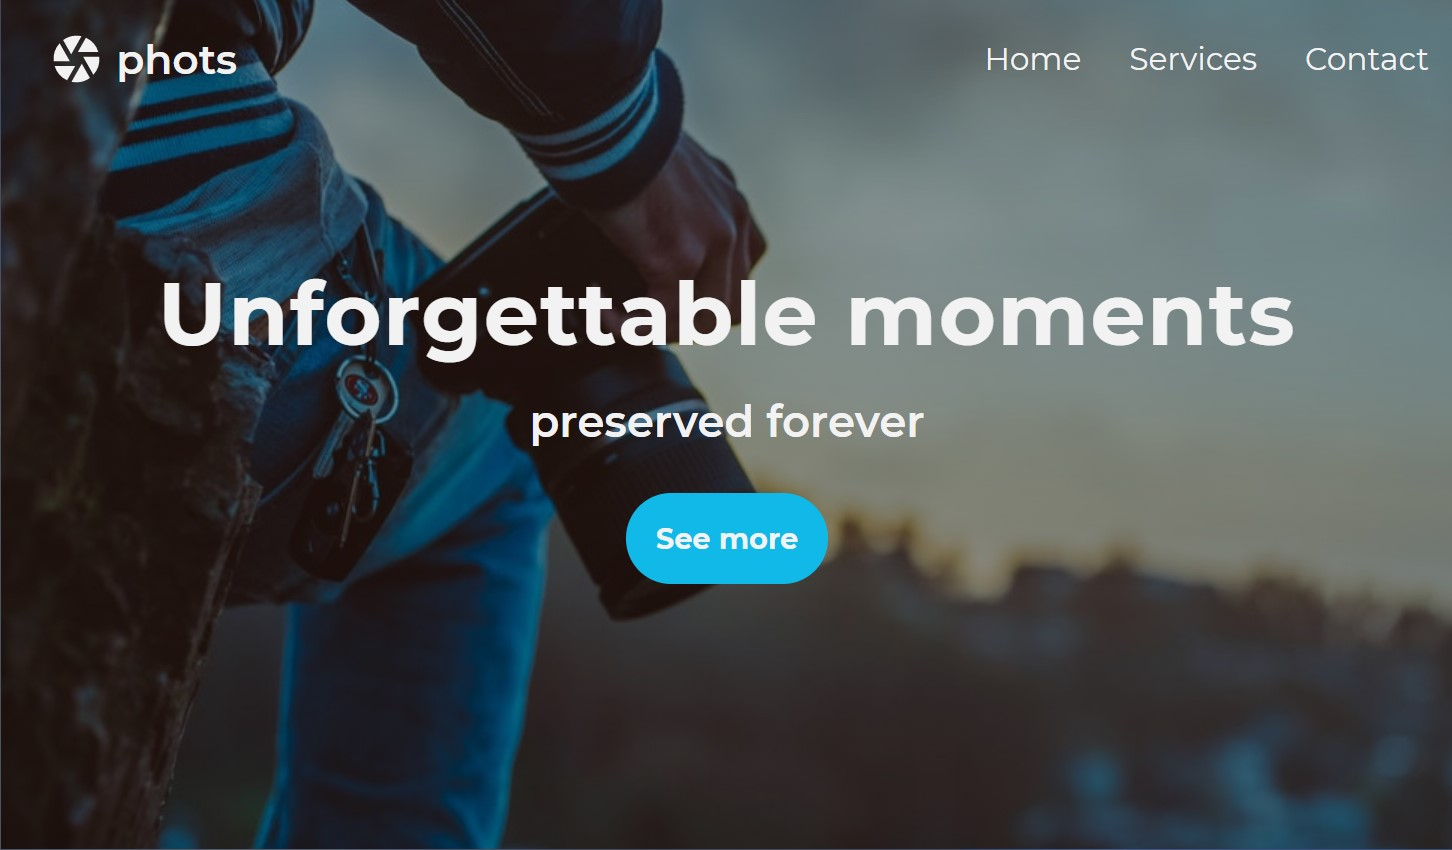
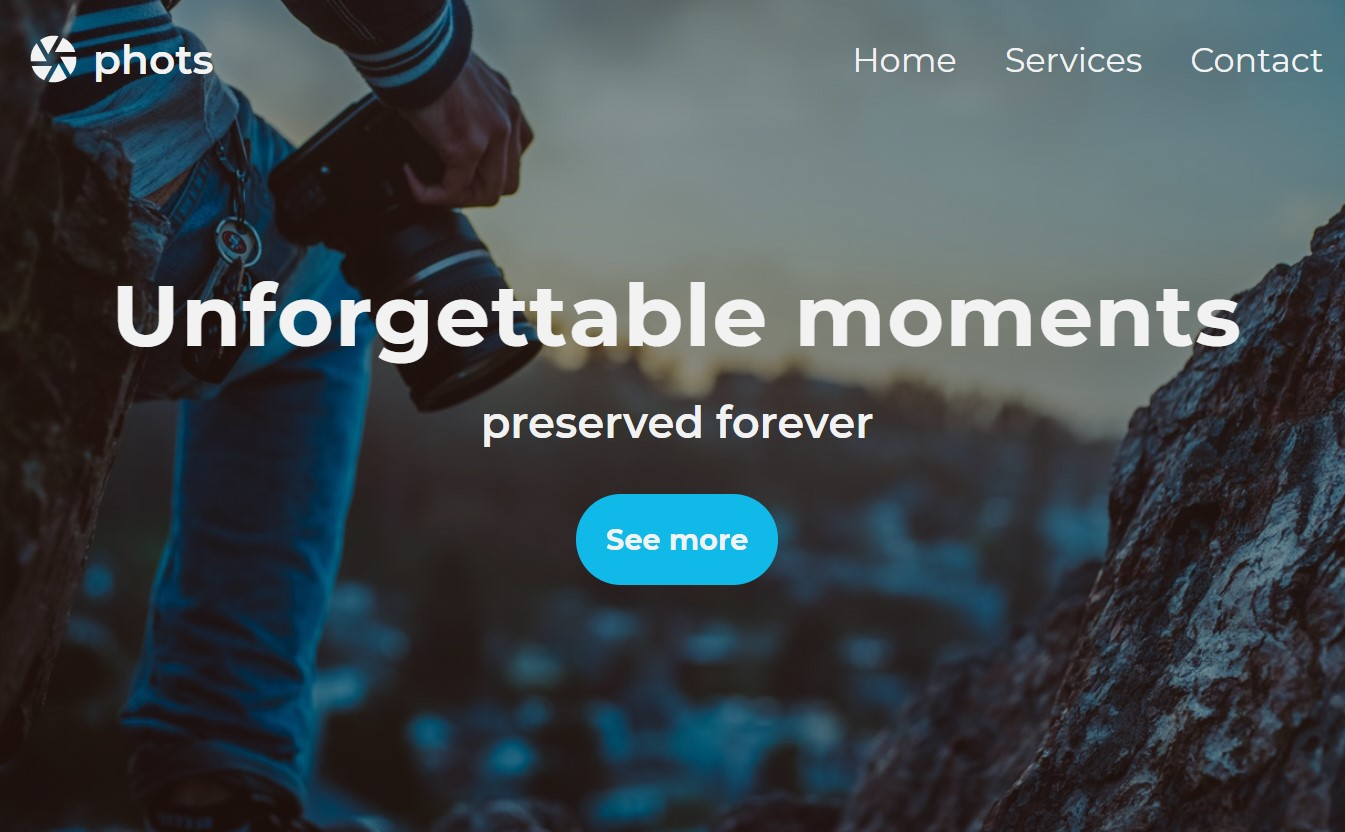
Fix media queries

diff --git a/css/style.css b/css/style.css
@@ -191,7 +191,8 @@
 }
 
 .hero__title {
-    font-size: 60px;
+    /* font-size: 60px; */
+    font-size: clamp(1.5rem, 6vw, 3.7rem);
     padding-top: 50px;
 }
 
@@ -241,7 +242,7 @@
         align-items: center;
         justify-content: center;
     }
-} 
+}
 
 @media screen and (max-width: 900px) {
     .hero__container {
@@ -251,9 +252,9 @@
         padding-top: 30px;
     }
 
-    .hero__title {
+    /* .hero__title {
         font-size: 50px;
-    }
+    } */
 
     .hero__subtitle {
         font-size: 30px;
@@ -269,9 +270,9 @@
         padding-top: 50px;
     }
 
-    .hero__title {
+    /* .hero__title {
         font-size: 40px;
-    }
+    } */
 
     .hero__subtitle {
         font-size: 20px;
@@ -345,20 +346,17 @@
 @media screen and (max-width: 1150px) {
     .skills__card {
         width: 280px;
+        margin: 0 1rem;
     }
 }
 
-@media screen and (max-width: 900px) {
+@media screen and (max-width: 990px) {
     .skills {
         padding: 5em 0;
     }
-
-    .skills__card {
-        width: 245px;
-    }
 }
 
-@media screen and (max-width: 820px) {
+@media screen and (max-width: 832px) {
     .skills__wrapper {
         flex-direction: column;
         align-items: center;
@@ -371,6 +369,10 @@
 }
 
 @media screen and (max-width: 400px) {
+    .skills__card {
+        padding: 2rem 1rem;
+        width: 90%;
+    }
     .skills__card h3 {
         font-size: 1.6rem;
     }
@@ -545,14 +547,14 @@
 }
 
 .info__container {
-    width: 75%;
+    width: 60%;
     margin: 4rem auto;
     display: flex;
     flex-direction: column;
     background-color: var(--dark-2);
     border-radius: 3px;
-    padding: 4.5rem 6rem 4.5rem 7rem;
-    clip-path: polygon(25% 0%, 100% 0%, 75% 100%, 0% 100%);
+    padding: 4.5rem;
+    clip-path: polygon(13% 0, 100% 0%, 87% 100%, 0% 100%);
 }
 
 .info__container p {
@@ -583,13 +585,14 @@
 .info__wrap {
     display: flex;
     max-height: 200px;
-} 
+    margin-top: 2rem;
+}
 
 .social-list {
     display: flex;
     height: 100px;
-    margin-top: 3rem;
-    margin-right: 1.5rem;
+    margin-top: 2rem;
+    margin-right: 5.5rem;
     justify-content: center;
     align-items: center;
     list-style: none;
@@ -606,19 +609,7 @@
     color: #1546c2;
 }
 
-
-@media screen and (max-width: 1180px) {
-    .social-list {
-        margin-right: 5.5rem;
-        margin-top: 2rem;
-    }
-
-    .info__wrap {
-        margin-top: 2rem;
-    }
-}
-
-@media screen and (max-width: 990px) {
+@media screen and (max-width: 1025px) {
     .info__wrap {
         flex-direction: column;
         margin-top: 2rem;
@@ -628,7 +619,7 @@
     .info__container p {
         margin-left: 3rem;
     }
-    
+
     .info__shape {
         width: 8rem;
         height: 8rem;
@@ -642,12 +633,19 @@
 
     .social-list {
         margin-top: 2.5rem;
+        margin-right: 1.5rem;
     }
 
     .fa-linkedin{
         margin-right: 0;
     }
 
+}
+
+@media screen and (max-width: 806px) {
+    .info__container p {
+        margin-left: 2.1rem;
+    }
 }
 
 @media screen and (max-width: 780px) {
@@ -667,15 +665,21 @@
     }
 }
 
-@media screen and (max-width: 490px) {
+@media screen and (max-width: 590px) {
     .info__container p {
         font-size: 2rem;
     }
 }
 
-@media screen and (max-width: 350px)  {
+@media screen and (max-width: 448px)  {
     .info__container p {
-        font-size: 1.6rem;
+        font-size: 1.7rem;
+    }
+}
+
+@media screen and (max-width: 398px)  {
+    .info__container {
+        width: 90%;
     }
 }
 
@@ -704,10 +708,10 @@ form {
     min-height: 460px;
     border-radius: 12px;
     padding: 2.5rem 0 1.5rem 0;
-    margin-bottom: 2.5rem;
+    margin-bottom: 4rem;
 }
 
-input, 
+input,
 .message {
     padding: 14px 32px 14px 16px;
     border-radius: 6px;
@@ -731,7 +735,7 @@ textarea {
 .message {
     margin-bottom: 1.5rem;
 }
- 
+
 @media screen and (max-width: 600px) {
     form {
         width: 480px;
@@ -745,6 +749,7 @@ textarea {
 
     form {
         width: 100%;
+        border-radius: 3px;
     }
 
     .contact__container p {
@@ -753,7 +758,7 @@ textarea {
 }
 
 @media screen and (max-width: 400px) {
-    input, 
+    input,
     .message {
         width: 260px;
     }
@@ -787,6 +792,3 @@ textarea {
         box-shadow: 0 0 0 0 rgba(32, 84, 214, 0);
     }
 }
-
-
-

diff --git a/index.html b/index.html
@@ -115,7 +115,7 @@
 
         <div class="my-work__item">
             <div class="my-work__img--wrap">
-                <div class="my-work__img"><img src="./images/phots.jpg" alt=""></div>
+                <div class="my-work__img"><img src="./images/phots-2.jpg" alt=""></div>
             </div>
             <div class="my-work__content">
                 <p class="my-work__top-line">Gatsby</p>
@@ -145,7 +145,7 @@
 
         <div class="my-work__item">
             <div class="my-work__img--wrap">
-                <div class="my-work__img"><img src="./images/phots-2.jpg" alt=""></div>
+                <div class="my-work__img"><img src="./images/projekt-3.jpg" alt=""></div>
             </div>
             <div class="my-work__content">
                 <p class="my-work__top-line">MERN</p>
@@ -183,17 +183,17 @@
                 </div>
                 <ul class="social-list">
                     <li class="social-list__item">
-                        <a href="https://twitter.com">
+                        <a href="https://twitter.com" target="_blank">
                             <i class="fab fa-twitter social-icon"></i>
                         </a>
                     </li>
                     <li class="social-list__item">
-                        <a href="https://github.com/btomc">
+                        <a href="https://github.com/btomc" target="_blank">
                             <i class="fab fa-github social-icon"></i>
                         </a>
                     </li>
                     <li class="social-list__item">
-                        <a href="https://www.linkedin.com/">
+                        <a href="https://www.linkedin.com/" target="_blank">
                             <i class="fab fa-linkedin social-icon"></i>
                         </a>
                     </li>
